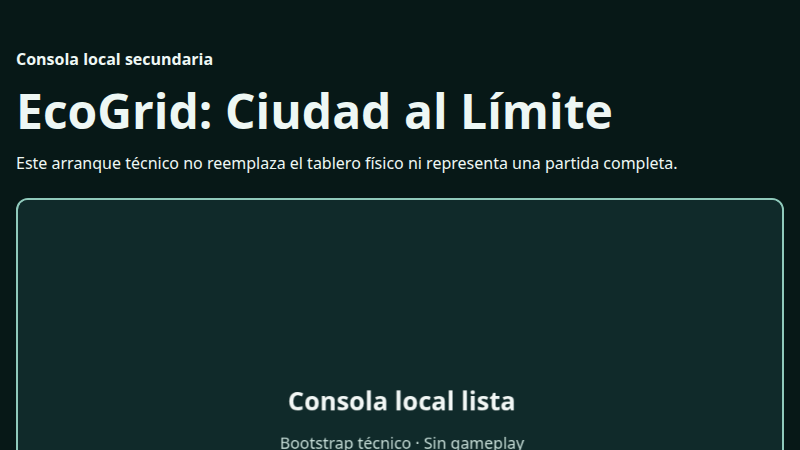
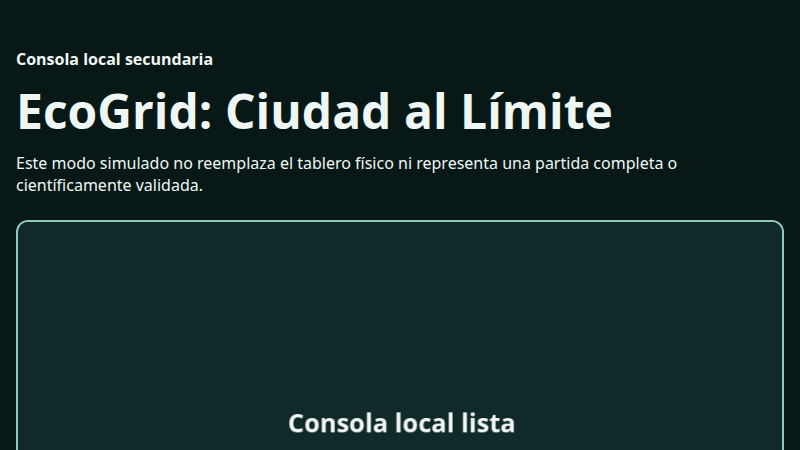
feat(console): add explicit simulated session mode

Changed region(s): [[0.0, 0.3422, 1.0, 0.4978], [0.3438, 0.8711, 0.6562, 1.0]]

diff --git a/src/application/round-session/createSimulatedRoundSession.ts b/src/application/round-session/createSimulatedRoundSession.ts
@@ -1,0 +1,59 @@
+import { createRoundSessionSnapshot } from "./createRoundSessionSnapshot";
+import { PROVISIONAL_ROUND_MANIFEST } from "./provisionalRoundManifest.mjs";
+import { createRoundHostIntegration } from "./roundHostIntegration.mjs";
+import type { RoundSessionPort, RoundSessionSnapshot } from "./roundSessionPort";
+
+export interface SimulatedRoundSession extends RoundSessionPort {
+  readonly loadInput: () => RoundSessionSnapshot;
+  readonly confirm: () => RoundSessionSnapshot;
+}
+
+const simulatedInputLine = (sequence: number): string => JSON.stringify({
+  type: "inputs",
+  protocolVersion: 1,
+  sequence,
+  uptimeMs: sequence * 100,
+  calibrationVersion: "simulated-not-calibrated-v1",
+  status: "valid",
+  values: {
+    lightProxy: { value: 0.5, status: "valid" },
+    temperature: { value: 20, status: "valid" },
+    hydroSetpoint: { value: 0.4, status: "valid" },
+    batteryMode: { value: "idle", status: "valid" },
+    loadPriority: { value: "balanced", status: "valid" },
+    confirm: { value: true, status: "valid" },
+  },
+});
+
+export function createSimulatedRoundSession(): SimulatedRoundSession {
+  const integration = createRoundHostIntegration({
+    manifest: PROVISIONAL_ROUND_MANIFEST,
+    seed: "local-simulated-session-v1",
+    resolverVersion: "trace-only-simulated-v1",
+    resolve: ({ round, input }) => Object.freeze({
+      mode: "simulated",
+      eventKey: round.event.data.key,
+      inputSequence: input.sequence,
+    }),
+  });
+  let nextSequence = 0;
+
+  const snapshot = (): RoundSessionSnapshot => createRoundSessionSnapshot(integration.snapshot());
+
+  return Object.freeze({
+    snapshot,
+    loadInput() {
+      const current = snapshot();
+      if (current.status !== "waiting-input") return current;
+      integration.ingest(simulatedInputLine(nextSequence));
+      nextSequence += 1;
+      return snapshot();
+    },
+    confirm() {
+      const current = snapshot();
+      if (!current.confirmationAllowed) return current;
+      integration.confirm(`simulated-token-${nextSequence - 1}`);
+      return snapshot();
+    },
+  });
+}

diff --git a/src/main.ts b/src/main.ts
@@ -1,24 +1,35 @@
 import Phaser from "phaser";
 
-import type { RoundSessionSnapshot } from "./application/round-session/roundSessionPort";
+import { createSimulatedRoundSession } from "./application/round-session/createSimulatedRoundSession";
 import { ConsoleBootstrapScene } from "./ConsoleBootstrapScene";
 import { createRoundConsoleViewModel } from "./console/createRoundConsoleViewModel";
 import { renderRoundConsoleStatus } from "./console/renderRoundConsoleStatus";
 import { createGameConfig } from "./createGameConfig";
 import "./styles.css";
 
-const initialSession: RoundSessionSnapshot = Object.freeze({
-  status: "unavailable",
-  roundIndex: 0,
-  roundCount: 0,
-  currentRoundId: null,
-  reasonCode: "FUENTE_VALIDADA_PENDIENTE",
-  confirmationAllowed: false,
-});
-
 const statusTarget = document.querySelector<HTMLElement>("#console-status");
 if (statusTarget === null) throw new Error("Missing console status target.");
-renderRoundConsoleStatus(statusTarget, createRoundConsoleViewModel(initialSession));
+const loadInputButton = document.querySelector<HTMLButtonElement>("#load-simulated-input");
+const confirmButton = document.querySelector<HTMLButtonElement>("#confirm-simulated-round");
+if (loadInputButton === null || confirmButton === null) throw new Error("Missing simulated controls.");
+
+const session = createSimulatedRoundSession();
+const renderSession = (): void => {
+  const snapshot = session.snapshot();
+  renderRoundConsoleStatus(statusTarget, createRoundConsoleViewModel(snapshot));
+  loadInputButton.disabled = snapshot.status !== "waiting-input";
+  confirmButton.disabled = !snapshot.confirmationAllowed;
+};
+
+loadInputButton.addEventListener("click", () => {
+  session.loadInput();
+  renderSession();
+});
+confirmButton.addEventListener("click", () => {
+  session.confirm();
+  renderSession();
+});
+renderSession();
 
 const gameConfig: Phaser.Types.Core.GameConfig = createGameConfig({
   renderer: Phaser.AUTO,

diff --git a/tests/simulatedRoundSession.test.ts b/tests/simulatedRoundSession.test.ts
@@ -1,0 +1,56 @@
+import { describe, expect, it } from "vitest";
+
+import { createSimulatedRoundSession } from "../src/application/round-session/createSimulatedRoundSession";
+
+describe("local simulated round session", () => {
+  it("requires separate deterministic load and confirmation actions", () => {
+    const session = createSimulatedRoundSession();
+
+    expect(session.snapshot()).toMatchObject({
+      status: "waiting-input",
+      roundIndex: 0,
+      reasonCode: "DEVICE_DISCONNECTED",
+      confirmationAllowed: false,
+    });
+    expect(session.confirm()).toEqual(session.snapshot());
+
+    expect(session.loadInput()).toMatchObject({
+      status: "ready",
+      roundIndex: 0,
+      reasonCode: "SNAPSHOT_READY",
+      confirmationAllowed: true,
+    });
+    expect(session.loadInput()).toEqual(session.snapshot());
+
+    expect(session.confirm()).toMatchObject({
+      status: "waiting-input",
+      roundIndex: 1,
+      currentRoundId: "round-2",
+      reasonCode: "NEW_INPUT_REQUIRED",
+      confirmationAllowed: false,
+    });
+  });
+
+  it("completes exactly six simulated rounds without ambient entropy", () => {
+    const run = () => {
+      const session = createSimulatedRoundSession();
+      const snapshots = [];
+      for (let round = 0; round < 6; round += 1) {
+        snapshots.push(session.loadInput());
+        snapshots.push(session.confirm());
+      }
+      return snapshots;
+    };
+
+    const first = run();
+    expect(first).toEqual(run());
+    expect(first.at(-1)).toEqual({
+      status: "completed",
+      roundIndex: 6,
+      roundCount: 6,
+      currentRoundId: null,
+      reasonCode: "LIFECYCLE_COMPLETED",
+      confirmationAllowed: false,
+    });
+  });
+});

diff --git a/index.html b/index.html
@@ -16,8 +16,8 @@
         <p class="console-label">Consola local secundaria</p>
         <h1 id="console-title">EcoGrid: Ciudad al Límite</h1>
         <p>
-          Este arranque técnico no reemplaza el tablero físico ni representa una
-          partida completa.
+          Este modo simulado no reemplaza el tablero físico ni representa una
+          partida completa o científicamente validada.
         </p>
       </header>
 
@@ -30,9 +30,23 @@
           aria-label="Área visual del bootstrap de la consola local EcoGrid"
         ></div>
         <p id="console-status" class="console-status" role="status">
-          Sesión no disponible. Progreso: ronda no disponible. Motivo:
-          FUENTE_VALIDADA_PENDIENTE. Confirmación disponible: no.
+          Esperando una entrada validada. Progreso: ronda 1 de 6. Motivo:
+          DEVICE_DISCONNECTED. Confirmación disponible: no.
         </p>
+        <div class="simulated-controls" aria-labelledby="simulated-mode-title">
+          <div>
+            <p class="simulation-label">Modo simulado</p>
+            <h2 id="simulated-mode-title">Prueba técnica local</h2>
+            <p>
+              Usa valores fijos no calibrados y un resolver sin efectos de energía,
+              puntuación ni ciencia. Cada acción es manual y determinista.
+            </p>
+          </div>
+          <div class="simulation-actions">
+            <button id="load-simulated-input" type="button">Cargar entrada simulada</button>
+            <button id="confirm-simulated-round" type="button" disabled>Confirmar ronda simulada</button>
+          </div>
+        </div>
       </section>
     </main>
 

diff --git a/src/styles.css b/src/styles.css
@@ -27,7 +27,8 @@ body {
 }
 
 .console-label,
-.console-status {
+.console-status,
+.simulation-label {
   font-weight: 700;
 }
 
@@ -57,6 +58,63 @@ h1 {
   padding: 0.75rem 1rem;
   border-inline-start: 0.35rem solid #8fc9bb;
   background: #143531;
+}
+
+.simulated-controls {
+  display: grid;
+  grid-template-columns: minmax(0, 1fr) auto;
+  gap: 1rem 2rem;
+  align-items: end;
+  max-width: 60rem;
+  padding: 1rem;
+  border: 1px solid #d5b86b;
+  border-radius: 0.75rem;
+  background: #2a2619;
+}
+
+.simulated-controls h2,
+.simulated-controls p {
+  margin-block: 0.25rem;
+}
+
+.simulation-label {
+  color: #f2cf74;
+  text-transform: uppercase;
+  letter-spacing: 0.08em;
+}
+
+.simulation-actions {
+  display: flex;
+  flex-wrap: wrap;
+  gap: 0.75rem;
+}
+
+button {
+  min-height: 2.75rem;
+  padding: 0.65rem 0.9rem;
+  border: 2px solid #d5b86b;
+  border-radius: 0.5rem;
+  color: #071817;
+  background: #f2cf74;
+  font: inherit;
+  font-weight: 800;
+  cursor: pointer;
+}
+
+button:focus-visible {
+  outline: 3px solid #eef7f4;
+  outline-offset: 3px;
+}
+
+button:disabled {
+  cursor: not-allowed;
+  opacity: 0.45;
+}
+
+@media (max-width: 42rem) {
+  .simulated-controls {
+    grid-template-columns: 1fr;
+  }
 }
 
 .visually-hidden {

diff --git a/docs/08_ESTADO_DEL_PROYECTO.md b/docs/08_ESTADO_DEL_PROYECTO.md
@@ -1,6 +1,6 @@
 # ESTADO / RELEVO OBLIGATORIO ENTRE SESIONES
 
-**Última actualización:** 2026-11-07 (ECO104-11 centralizó el manifiesto provisional; ECO-101 sigue en curso).
+**Última actualización:** 2026-11-07 (BOOTSTRAP-009 añadió el loop local simulado autorizado; ECO-101 sigue en curso).
 **Fase actual:** F0, contrato híbrido y preparación del gate de inventario.
 **Tarea vigente:** ECO-101 establece en paralelo el bootstrap técnico de la consola local secundaria. ECO-108 y G1 siguen abiertos; ECO-002 continúa BLOQUEADA y el bootstrap no consume sus modelos.
 **Producto físico/hardware:** NO EXISTE AÚN. Hay un bootstrap técnico de consola, pero no tablero, componentes confirmados, firmware, calibración, protocolo integrado, carcasa ni pruebas HIL.
@@ -177,6 +177,7 @@ El equipo debe registrar inventario real y decidir componentes, presupuesto, rol
 - **Promoción HOST-004:** el adaptador fail-closed canónico vive en `src/infrastructure/host-adapter/`, con declaración estricta y snapshots desacoplados; `tools/host-adapter/` conserva CLI/pruebas mediante una fachada y la integración importa infraestructura. Adaptador+integración 33/33, referencias 165/165, Vitest 56/56, typecheck, build y smokes pasaron; offline escaneó 32+3. No existe serial, timeout, retry, hardware ni wiring en `main.ts`.
 - **Integración ECO104-10/BOOTSTRAP-008:** la composición adapter+lifecycle canónica vive en aplicación y un mapper puro produce snapshots aceptados por la consola. Fuente ausente espera entrada; una entrada fresca confirmada queda lista; una secuencia consumida exige otra; desconexión exige reset y seis rondas completan. Integración 18/18, referencias 165/165, Vitest 59/59, typecheck, build y smokes pasaron; offline escaneó 36+3. `main.ts` sigue sin fuente real o manifiesto.
 - **Manifiesto ECO104-11:** una única fuente profundamente inmutable en aplicación define las seis rondas y claves provisionales; reemplaza el fixture JSON y manifiestos locales de Vitest. Lifecycle+integración 71/71, referencias 165/165, Vitest 60/60, typecheck, build y smokes pasaron; offline escaneó 38+3. No define efectos, magnitudes, balance, solvencia ni wiring.
+- **Loop BOOTSTRAP-009:** `main.ts` usa una fuente local explícitamente simulada, autorizada por el usuario. La interfaz etiqueta valores fijos no calibrados, separa carga/confirmación y avanza por el ciclo canónico con resolver de traza. Vitest 62/62, referencias 165/165, typecheck/build y smokes pasaron; Chrome verificó waiting→ready→ronda 2, móvil 390 px sin overflow y cero errores; offline escaneó 40+3. No acredita serial, hardware, física, energía, score, balance o gameplay.
 - **Límites:** la evidencia offline prueba recursos productivos locales bajo HTTP loopback y persistencia sin refresh tras apagar el servidor; no comprueba `file://`, PWA, interacción, accesibilidad asistida, otros navegadores/equipos, rendimiento prolongado, gameplay o integración física. No consume ECO-002 ni implementa ciencia, control o score.
 - **Rollback:** revertir el work unit productivo retira entrada raíz, dependencias, pruebas y vistas asociadas; el spike histórico permanece aislado y ninguna ruta científica lo importa.
 

diff --git a/evidencias/ECO-101/product-browser-smoke/report.md b/evidencias/ECO-101/product-browser-smoke/report.md
@@ -1,6 +1,6 @@
 # ECO-101 product browser smoke
 
-BOOTSTRAP-002 reproducibly observes the root product shell and Phaser canvas in installed Chrome without adding a browser dependency. It closes only the browser/canvas bootstrap boundary; ECO-101 remains in progress.
+The harness reproducibly observes the root product shell, Phaser canvas, and the explicitly simulated BOOTSTRAP-009 interaction in installed Chrome without adding a browser dependency. ECO-101 remains in progress.
 
 ## Reproduce
 
@@ -14,15 +14,17 @@ The harness starts root Vite on `127.0.0.1:4173` with `--strictPort`, waits for 
 ## Observed result
 
 - Browser: `Google Chrome 156.0.8078.47`.
-- Two consecutive smoke runs: `PASS`.
-- Product checks: title marker, `EcoGrid: Ciudad al Límite`, `Consola local secundaria`, initial `Sesión no disponible.`, confirmation unavailable, and a canvas under `#game-container` all present.
+- Result: `PASS`.
+- Product checks: title marker, `EcoGrid: Ciudad al Límite`, `Consola local secundaria`, visible simulated-mode label, initial waiting state, confirmation unavailable, and a canvas under `#game-container` all present.
+- Interaction: loading a simulated input exposed `ready` and confirmation available; confirming advanced to round 2, required a new input, enabled load, and disabled confirm.
+- Mobile check: at 390 × 844 CSS pixels the document had no horizontal overflow, both controls remained visible, and the canvas retained non-zero dimensions.
 - Canvas: backing size 960 × 540; displayed size 764 × 432, both non-zero.
[2 lines of base64/hex data omitted]
 - Error signal: zero `Runtime.exceptionThrown`, console `error`, or JavaScript `Log.entryAdded` events observed through CDP.
 - Negative regression: an impostor returned HTTP 200 with the exact title/canvas markers; strict-port Vite exited non-zero before Chrome/PASS, then the test rebound port 4173.
 
 ## Limits and rollback
 
-The bounded error signal excludes network/resource failures that are not JavaScript runtime or console errors. One headless Chrome frame does not verify offline operation, interaction, assistive-technology accessibility, other browsers/devices, prolonged performance, gameplay, physics, serial, or hardware.
+The bounded error signal excludes network/resource failures that are not JavaScript runtime or console errors. This verifies one deterministic simulated interaction, not assistive-technology accessibility, other browsers/devices, prolonged performance, gameplay effects, physics, serial, calibration, or hardware.
 
 Rollback removes this directory, the `test:browser-smoke` package script, and BOOTSTRAP-002 documentation entries without reverting BOOTSTRAP-001 commit `9956eb5` or the historical disposable spike.

diff --git a/odd/tasks/eco-101-console-bootstrap.md b/odd/tasks/eco-101-console-bootstrap.md
@@ -84,6 +84,11 @@ The disposable runtime spike proved local compatibility, but the repository stil
   - Route: direct implementation on `feat/eco-round-session-integration` after `65cf481`.
   - Acceptance: a pure application mapper translates canonical integration state into coherent six-round snapshots accepted by the hardened console boundary; no manifest, transport or runtime source is wired into `main.ts`.
   - Checks and rollback are shared with ECO104-10 so code, tests and traceability remain one work unit below 400 authored lines.
+- [x] **BOOTSTRAP-009 — Wire an explicitly simulated local session**
+  - Authorization: the user explicitly selected local simulation on 2026-11-07; no real-hardware claim is permitted.
+  - Acceptance: the shell visibly labels simulation, exposes separate accessible load/confirm controls, advances deterministically through six canonical rounds, and uses a trace-only resolver with no physical effects, score or scientific claim.
+  - Checks: focused/full Vitest, typecheck, build, interactive browser smoke, offline smoke, complete Node references, layer/network/entropy scans, whitespace and authored-line guard.
+  - Rollback: revert only BOOTSTRAP-009 to restore the honest unavailable bootstrap; all promoted pure modules remain intact.
 
 ## Acceptance criteria
 
@@ -155,6 +160,15 @@ Revert the single work-unit commit. This removes the root application, exact dep
 - BOOTSTRAP-008 maps canonical integration state to hardened console snapshots for
   waiting, ready, fresh-input-required, reset and completed states. Vitest 59/59,
   references 165/165 and smokes PASS; no runtime source is wired into `main.ts`.
+- BOOTSTRAP-009 was explicitly authorized by the user and wires only a local
+  simulated source. Separate load/confirm actions advance the canonical loop;
+  fixed controls are labeled uncalibrated and the resolver records trace only.
+- BOOTSTRAP-009 evidence: Vitest 62/62, references 165/165, typecheck and build
+  PASS; Chrome observed waiting → ready → round 2, zero JavaScript errors and a
+  390 px no-overflow layout; offline smoke scanned 40+3 and made eight local/data
+  requests. No serial, hardware, physics, energy, score or gameplay effect exists.
+- BOOTSTRAP-009 delivery: one child after `fdaf99d`, with 295 authored lines
+  (`265` additions and `30` deletions) across 15 paths plus one evidence PNG.
 
 ## Next step
 

diff --git a/docs/07_PROCESO_IA.md b/docs/07_PROCESO_IA.md
@@ -35,6 +35,7 @@ El documento oficial (pág. 2, Regla III) exige registrar: herramienta usada, pr
 | 2026-11-07 | HOST-004 | OpenCode / GPT-5.6 | equipo | promover el adaptador fail-closed sin fingir transporte físico | adaptador y declaración en infraestructura, fachada CLI, imports, pruebas y vistas mínimas | PENDIENTE | adaptador+integración 33/33; Node 165/165; Vitest 56/56; typecheck, build, smokes y scan offline 32+3 PASS | una implementación; snapshots desacoplados; sin serial, timeout, retry, hardware, gameplay ni wiring | PROMOCIÓN TÉCNICA LOCAL; ECO-101 EN CURSO; ECO-109 PENDIENTE |
 | 2026-11-07 | ECO104-10 / BOOTSTRAP-008 | OpenCode / GPT-5.6 | equipo | promover la composición y mapear estado canónico al puerto visible sin cablear runtime | composición/declaración, mapper puro, fachada, pruebas y vistas mínimas | PENDIENTE | integración 18/18; Node 165/165; Vitest 59/59; typecheck, build, smokes y scan offline 36+3 PASS | snapshot consumido exige nueva secuencia; reset y completado coherentes; sin `main.ts`, manifiesto, ciencia o hardware | INTEGRACIÓN DE APLICACIÓN ACOTADA; ECO-101 EN CURSO; ECO-104 PENDIENTE |
 | 2026-11-07 | ECO104-11 | OpenCode / GPT-5.6 | equipo | centralizar el orden provisional sin promover efectos | manifiesto/declaración en aplicación, eliminación de fixture duplicado, consumidores y vistas mínimas | PENDIENTE | lifecycle+integración 71/71; Node 165/165; Vitest 60/60; typecheck, build, smokes y scan offline 38+3 PASS | seis claves profundamente inmutables; siguen provisionales y sin magnitudes, efectos, balance o solvencia | MANIFIESTO CANÓNICO PROVISIONAL; ECO-104 PENDIENTE |
+| 2026-11-07 | ECO-101 / BOOTSTRAP-009 | OpenCode / GPT-5.6 | equipo | cablear el modo local simulado autorizado sin fingir hardware o ciencia | fuente simulada pura, controles accesibles, wiring, pruebas, smoke interactivo, evidencia y vistas mínimas | autorización humana explícita para simulación local | Vitest 62/62; Node 165/165; typecheck/build; Chrome waiting→ready→ronda 2, móvil 390 px sin overflow; offline 40+3 PASS | valores fijos no calibrados y resolver sólo de traza; sin serial, física, energía, score o gameplay | LOOP TÉCNICO SIMULADO; ECO-101 EN CURSO |
 
 ## Protocolo
 - Tras cada tarea, anotar decisiones afectadas, fórmula comprobada o prueba testable, resultado observado y revisión humana.

diff --git a/evidencias/ECO-101/offline-static-smoke/report.md b/evidencias/ECO-101/offline-static-smoke/report.md
@@ -4,14 +4,14 @@
 - Browser: `Google Chrome 156.0.8078.47`.
 - Result: PASS; 8 product requests, 0 JavaScript/console errors.
 - Canvas: 960 × 540; displayed 749 × 423.5625.
-- Static scan: 38 committed source/config files and 3 built HTML/CSS/JS files.
+- Static scan: 40 committed source/config files and 3 built HTML/CSS/JS files.
 - Post-shutdown: shell/canvas remained present for 1,000 ms (749 × 423.5625); no refresh was attempted.
 
 ## Request inventory
 
 - 200 Document http://127.0.0.1:4174/
-- 200 Script http://127.0.0.1:4174/assets/index-BPBVPWyg.js
-- 200 Stylesheet http://127.0.0.1:4174/assets/index-npSrWtCa.css
+- 200 Script http://127.0.0.1:4174/assets/index-CoGsb4CW.js
+- 200 Stylesheet http://127.0.0.1:4174/assets/index-DPXo9uwp.css
[3 lines of base64/hex data omitted]

diff --git a/docs/04_BACKLOG_Y_FASES.md b/docs/04_BACKLOG_Y_FASES.md
@@ -15,7 +15,7 @@
 ## F1 — Rebanada vertical jugable
 | ID | Tarea | Criterio de salida | Estado |
 |---|---|---|---|
-| ECO-101 | Evaluar consola local web y establecer bootstrap productivo | stack ratificado, app raíz tipada y checks reproducibles; operación offline local verificada | EN CURSO — sesión canónica mapeada al puerto visible, aún sin fuente/wiring; sin gameplay ni integración física |
+| ECO-101 | Evaluar consola local web y establecer bootstrap productivo | stack ratificado, app raíz tipada y checks reproducibles; operación offline local verificada | EN CURSO — loop local simulado y explícito visible; sin gameplay, ciencia, serial ni integración física |
 | ECO-102 | Modelos mínimos PV térmico + hidro de pasada en SI | tests de fórmulas, calor, caudal ecológico y límites | PENDIENTE |
 | ECO-103 | Bus eléctrico, batería y control prioridades | balance por tick y SOC límites, pruebas | PENDIENTE |
 | ECO-104 | Secuencia sembrada de seis rondas con eventos mínimos | reproducible y sin eventos imposibles de superar | PENDIENTE — lifecycle, composición y manifiesto provisional canónicos; sin efectos, solvencia, balance o wiring de producto |

diff --git a/docs/03_ARQUITECTURA.md b/docs/03_ARQUITECTURA.md
@@ -75,6 +75,11 @@ ECO104-11 centraliza el orden de seis rondas y sus claves semánticas en un
 manifiesto de aplicación profundamente inmutable. Continúa marcado como
 provisional: no define efectos, magnitudes, balance, ciencia ni solvencia.
 
+BOOTSTRAP-009 conecta `main.ts` exclusivamente a una fuente local simulada,
+autorizada y etiquetada. Los botones cargan una entrada fija no calibrada y la
+confirman por separado; el resolver sólo registra trazabilidad. No representa
+USB, sensores, física, energía, score, balance o una partida completa.
+
 ## Contrato de resolución (esquema lógico, aún no implementado)
 `resolveRound(state, validatedInputs, roundCard): RoundResult`
 - **Entrada:** estado de instalaciones y batería, entradas físicas validadas, carta de ronda e intervalo simulado declarado.
